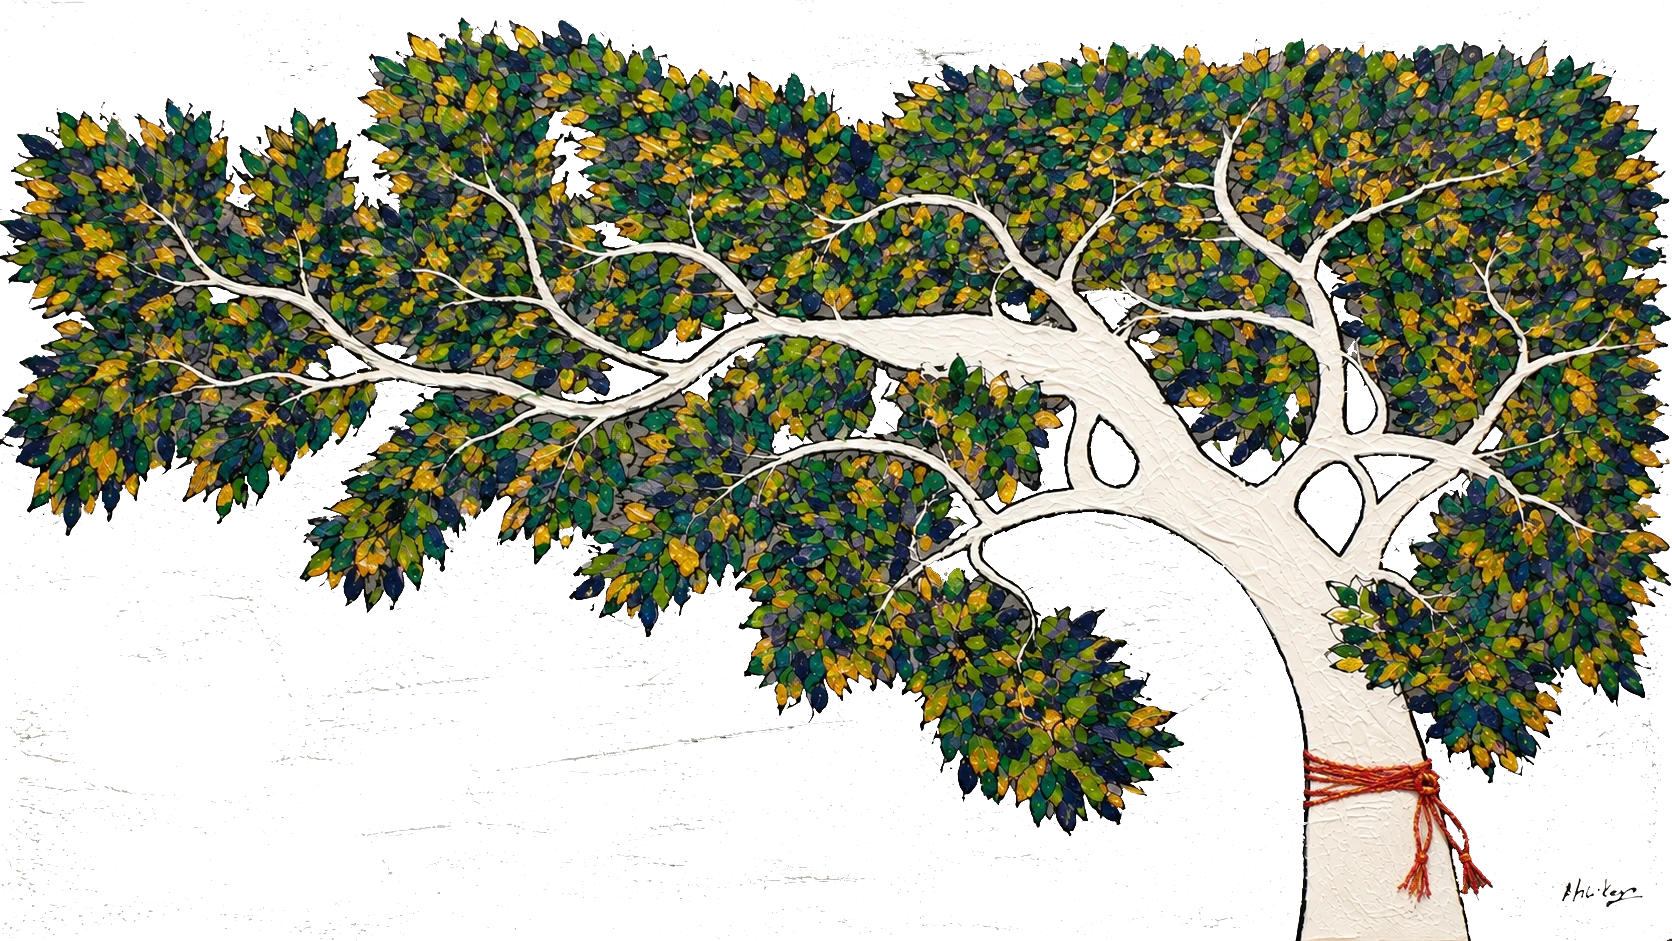
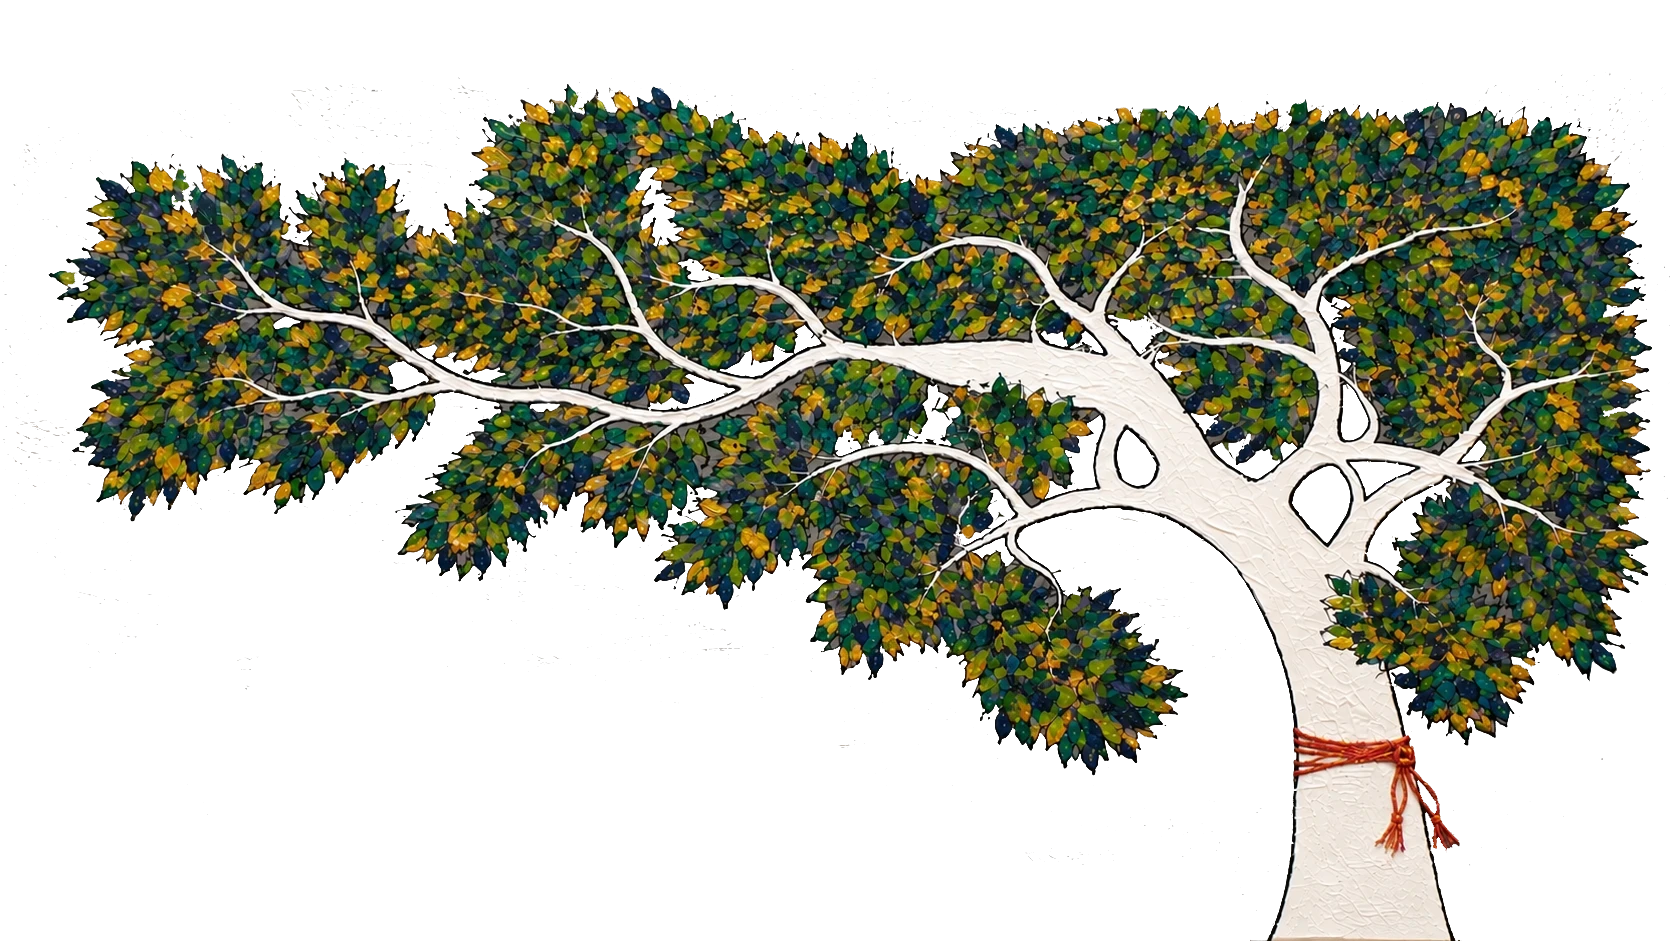
Use the re-framed painting and the planting photograph
- tree-painting.jpg and tree-cutout.webp replaced with the owner's
  re-framed versions (same 1672x941 frame, whole trunk visible). Hero
  title sits lower and a touch smaller so the leaves only clip its top.
- planting.jpg: the founder planting a sapling, the site's first field
  photograph. It replaces the painting crop in the home promise chapter,
  with alt copy in both languages.
- PaintingDetail gains a zoom about the crop point, so the thread-page
  knot panel and the stories canopy panel show a detail again instead of
  the whole painting; crop points re-measured for the new framing.

Claude-Session: https://claude.ai/code/session_01DnpHkvadXKg35bkuHrKmRL

diff --git a/src/components/home/PromiseSection.tsx b/src/components/home/PromiseSection.tsx
@@ -1,11 +1,12 @@
+import Image from "next/image";
 import { getTranslations } from "next-intl/server";
-import { PaintingDetail } from "@/components/painting/PaintingDetail";
+import type { CSSProperties } from "react";
 import { BilingualHeading } from "@/components/typography/BilingualHeading";
 import { Button } from "@/components/ui/Button";
 import type { Locale } from "@/i18n/routing";
 import { bilingual } from "@/lib/i18n/bilingual";
 
-/** Chapter one: the promise, stated at display size beside the knot. */
+/** Chapter one: the promise, stated at display size beside the founder planting a sapling. */
 export async function PromiseSection({ locale }: { locale: Locale }) {
   const [pair, t, hero] = await Promise.all([
     bilingual(locale, "home", "promise"),
@@ -23,7 +24,23 @@ export async function PromiseSection({ locale }: { locale: Locale }) {
             <Button href="/get-involved">{hero("tieThread")}</Button>
           </div>
         </div>
-        <PaintingDetail crop="knot" ratio="4/5" phoneRatio="4/3" alt={t("knotAlt")} sizes="(min-width: 1024px) 38vw, 100vw" className="max-h-[76vh]" />
+        {/* The site's first field photograph: a portrait panel on desktop, a short band on phones. */}
+        <div
+          data-photo="planting"
+          data-reveal="mask"
+          className="painting-detail relative max-h-[76vh] overflow-hidden rounded-[var(--radius-panel)] bg-stone"
+          style={{ "--ratio": "4 / 5", "--ratio-phone": "4 / 3" } as CSSProperties}
+        >
+          <Image
+            src="/images/planting.jpg"
+            alt={t("plantingAlt")}
+            fill
+            sizes="(min-width: 1024px) 38vw, 100vw"
+            quality={70}
+            className="object-cover"
+            style={{ objectPosition: "50% 58%" }}
+          />
+        </div>
       </div>
     </section>
   );

diff --git a/e2e/pages.spec.ts b/e2e/pages.spec.ts
@@ -90,14 +90,14 @@ test("stories index: the first story starts inside the first screen at 1440", as
 test("on a phone the promise panel is landscape, so the chapter stays short", async ({ page }) => {
   await page.setViewportSize({ width: 390, height: 844 });
   await page.goto("/en");
-  const panel = await page.locator('[data-section="promise"] [data-painting-detail="knot"]').boundingBox();
+  const panel = await page.locator('[data-section="promise"] [data-photo="planting"]').boundingBox();
   expect(panel!.height).toBeLessThan(panel!.width);
 });
 
 test("home promise panel never outgrows the screen at 1920", async ({ page }) => {
   await page.setViewportSize({ width: 1920, height: 960 });
   await page.goto("/en");
-  const panel = await page.locator('[data-section="promise"] [data-painting-detail="knot"]').boundingBox();
+  const panel = await page.locator('[data-section="promise"] [data-photo="planting"]').boundingBox();
   expect(panel!.height).toBeLessThanOrEqual(960 * 0.8);
 });
 
@@ -109,7 +109,9 @@ test("home: the chapters exist in both locales, each with an action", async ({ p
       await expect(section, `${locale} ${name}`).toBeVisible();
       expect(await section.locator("a[href]").count(), `${locale} ${name} action`).toBeGreaterThan(0);
     }
-    await expect(page.locator('[data-section="promise"] [data-painting-detail="knot"]')).toHaveCount(1);
+    const photo = page.locator('[data-section="promise"] [data-photo="planting"] img');
+    await expect(photo).toHaveCount(1);
+    expect((await photo.getAttribute("alt"))?.length ?? 0, `${locale} planting alt`).toBeGreaterThan(10);
     await expect(page.locator("header [data-mark]")).toHaveCount(1);
   }
 });

diff --git a/src/components/painting/PaintingDetail.tsx b/src/components/painting/PaintingDetail.tsx
@@ -4,7 +4,7 @@ import type { CSSProperties } from "react";
 type Crop = "knot" | "canopy" | "trunk";
 type Ratio = "4/5" | "4/3" | "16/9" | "3/1" | "1/1";
 
-const POSITION: Record<Crop, string> = { knot: "74% 86%", canopy: "22% 28%", trunk: "80% 58%" };
+const POSITION: Record<Crop, string> = { knot: "82% 82%", canopy: "24% 32%", trunk: "80% 62%" };
 const RATIO: Record<Ratio, string> = { "4/5": "4 / 5", "4/3": "4 / 3", "16/9": "16 / 9", "3/1": "3 / 1", "1/1": "1 / 1" };
 
 /**
@@ -17,6 +17,7 @@ export function PaintingDetail({
   crop,
   ratio = "4/5",
   phoneRatio = ratio,
+  zoom = 1,
   alt,
   sizes = "(min-width: 1024px) 40vw, 100vw",
   className = "",
@@ -24,6 +25,8 @@ export function PaintingDetail({
   crop: Crop;
   ratio?: Ratio;
   phoneRatio?: Ratio;
+  /** Magnification about the crop point, so a wide box can still show a detail. */
+  zoom?: number;
   alt: string;
   sizes?: string;
   className?: string;
@@ -42,7 +45,7 @@ export function PaintingDetail({
         sizes={sizes}
         quality={62}
         className="object-cover"
-        style={{ objectPosition: POSITION[crop] }}
+        style={{ objectPosition: POSITION[crop], transformOrigin: POSITION[crop], transform: zoom === 1 ? undefined : `scale(${zoom})` }}
       />
     </div>
   );

diff --git a/src/app/[locale]/stories/page.tsx b/src/app/[locale]/stories/page.tsx
@@ -36,7 +36,7 @@ export default async function StoriesPage({ params, searchParams }: Props) {
       <PageHeader
         pair={pair}
         lede={t("lede")}
-        aside={<PaintingDetail crop="canopy" ratio="16/9" alt={home("canopyAlt")} sizes="(min-width: 1024px) 38vw, 100vw" />}
+        aside={<PaintingDetail crop="canopy" ratio="16/9" zoom={1.6} alt={home("canopyAlt")} sizes="(min-width: 1024px) 38vw, 100vw" />}
       />
       <div className="page">
         <TagFilter tags={tags} active={tag} locale={locale} />

diff --git a/src/app/[locale]/thread/page.tsx b/src/app/[locale]/thread/page.tsx
@@ -36,7 +36,7 @@ export default async function ThreadPage({ params }: { params: Promise<{ locale:
           <p>{t("p3")}</p>
         </div>
         <aside data-aside className="min-[1024px]:self-start">
-          <PaintingDetail crop="knot" ratio="4/3" alt={home("knotAlt")} sizes="(min-width: 1024px) 34vw, 100vw" />
+          <PaintingDetail crop="knot" ratio="4/3" zoom={1.9} alt={home("knotAlt")} sizes="(min-width: 1024px) 34vw, 100vw" />
         </aside>
       </div>
       <div className="page section">

diff --git a/src/components/hero/hero.css b/src/components/hero/hero.css
@@ -88,10 +88,10 @@
     position: absolute;
     z-index: 1;
     left: 4.5cqw;
-    bottom: 5.6cqw;
+    bottom: 4.2cqw;
     margin: 0;
     max-width: 44cqw;
-    font-size: 6.4cqw;
+    font-size: 5.7cqw;
     line-height: 0.98;
     color: var(--stone-ink);
   }

diff --git a/docs/superpowers/plans/2026-09-16-redesign.md b/docs/superpowers/plans/2026-09-16-redesign.md
@@ -15,7 +15,7 @@ vitest / `@playwright/test@1.56.1` pinned to the pre-installed `chromium-1194` (
 .gitignore  README.md  package.json  next.config.ts (next-intl plugin, images.remotePatterns, analyzer)
 docs/superpowers/specs/2026-09-16-redesign-design.md   this spec      docs/superpowers/plans/2026-09-16-redesign.md   this plan
 docs/deploy.md                                          Vercel + Supabase + DNS runbook
-public/images/{tree-painting.jpg, tree-cutout.webp, founder.jpg, grain.svg}   (from the uploaded v2 package)
+public/images/{tree-painting.jpg, tree-cutout.webp, founder.jpg, planting.jpg, grain.svg}   (painting and cut-out re-framed by the owner; planting photo supplied later)
 messages/en.json  messages/hi.json                      all UI copy, ported from v2's data-en/data-hi pairs, rewritten to the copy rules
 src/proxy.ts                                            next-intl createMiddleware; matcher excludes /admin, /_next, /images
 src/i18n/{routing,request,navigation}.ts                locales en|hi, default en, localePrefix 'always'
